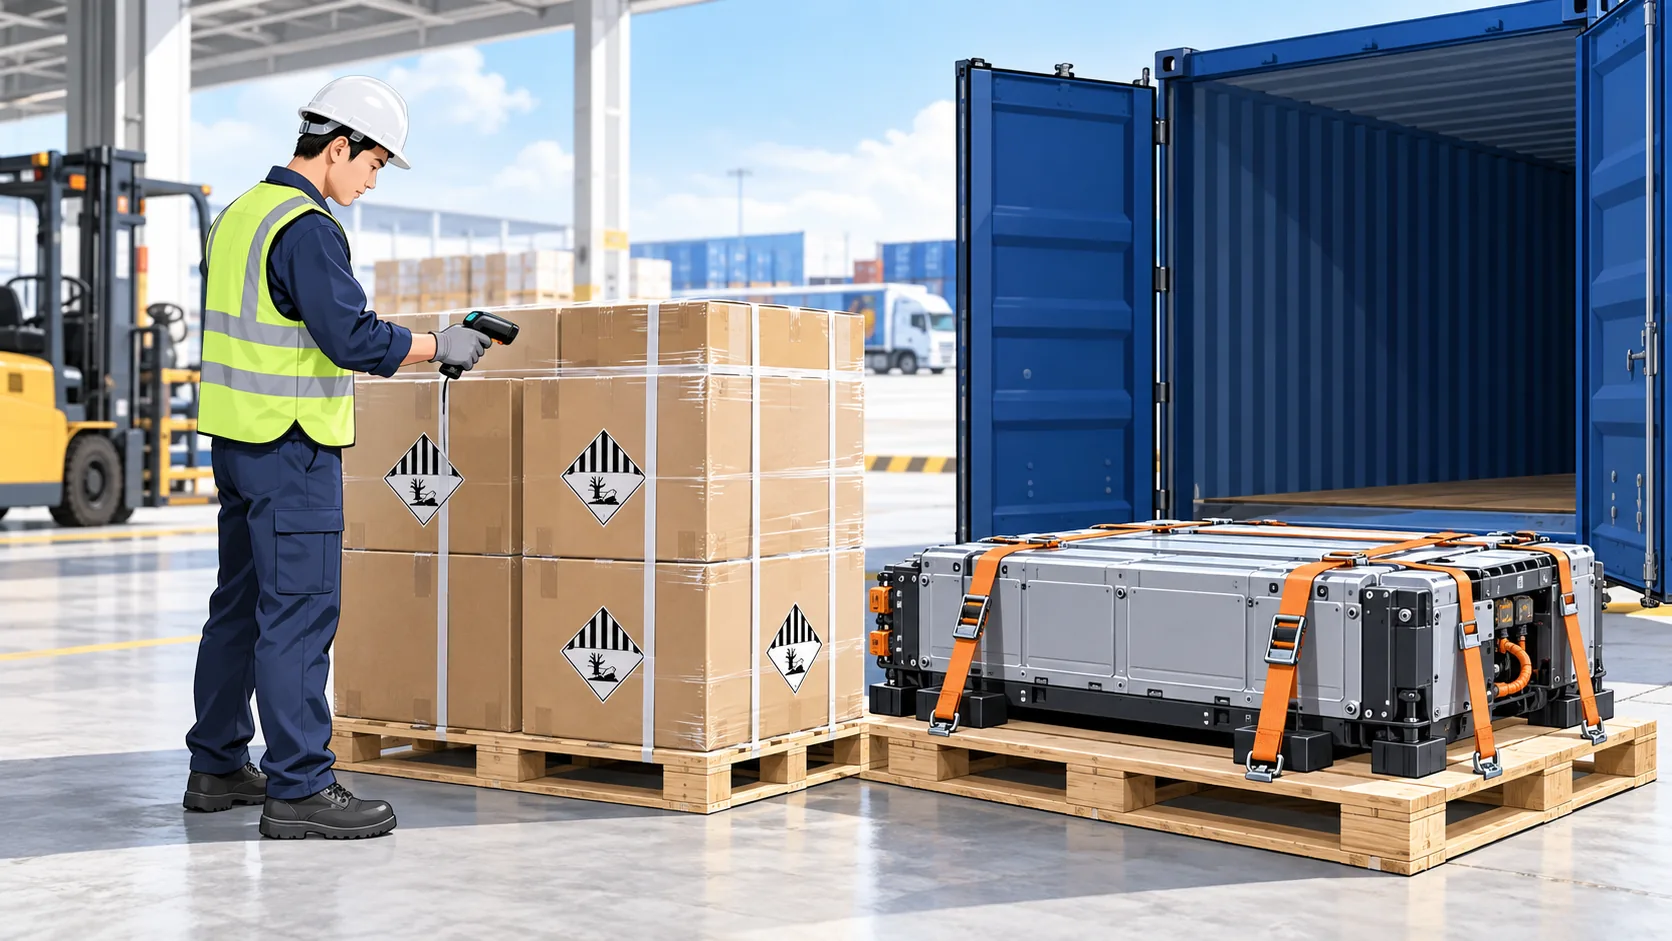
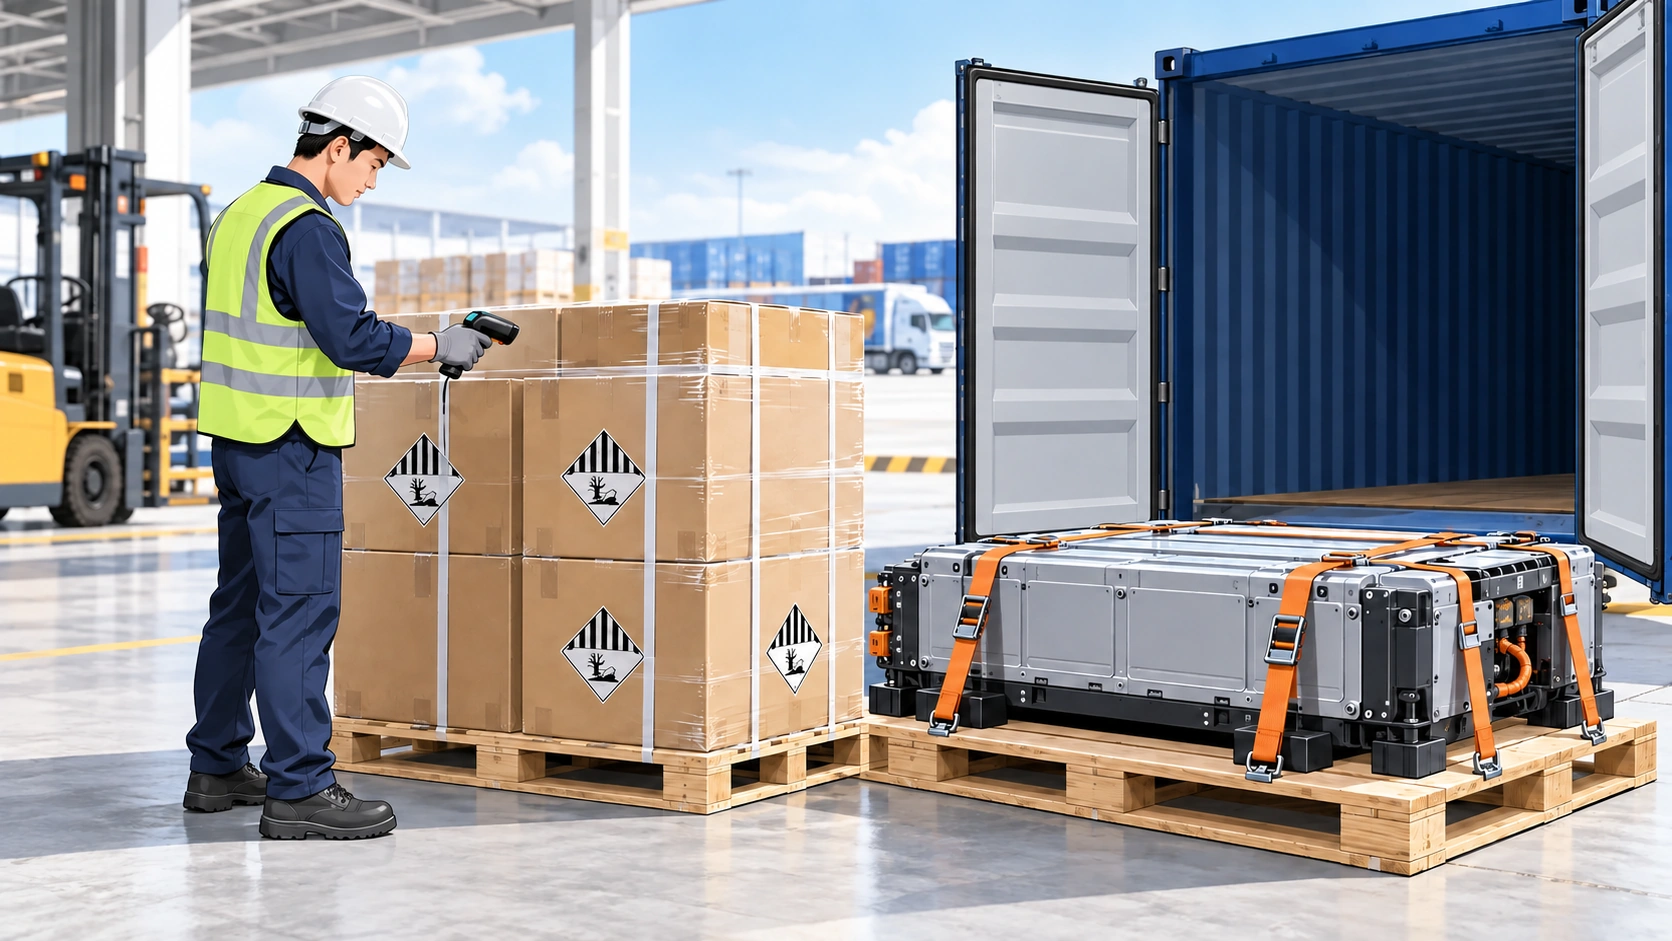
Container doors fixed in 7 illustrations: hinged at the outer corner posts, locking gear only on the outer face, plain inner faces when open

diff --git a/library/ctu-code.html b/library/ctu-code.html
@@ -14,7 +14,7 @@
   <meta property="og:url" content="https://logistics.onharu.app/library/ctu-code">
   <meta property="og:image" content="https://logistics.onharu.app/images/ctu/collapsed-cargo-v2.webp">
   <meta name="twitter:card" content="summary_large_image">
-  <script type="application/ld+json">{"@context": "https://schema.org", "@graph": [{"@type": "CollectionPage", "@id": "https://logistics.onharu.app/library/ctu-code", "name": "CTU Code · Logistics Library", "description": "CTU Code 공식 원문 링크와 AI가 작성한 한국어 해설, 고박·보험 참고 자료.", "url": "https://logistics.onharu.app/library/ctu-code", "inLanguage": "ko", "image": ["https://logistics.onharu.app/images/ctu/collapsed-cargo-v2.webp"], "dateModified": "2026-10-18T16:08:00+09:00", "publisher": {"@type": "Organization", "name": "ONHARU", "url": "https://onharu.app/"}, "isPartOf": {"@type": "WebSite", "name": "Logistics Library", "url": "https://logistics.onharu.app/"}, "mainEntity": {"@type": "ItemList", "itemListElement": [{"@type": "ListItem", "position": 1, "url": "https://logistics.onharu.app/library/ctu-code/ctu-overview", "name": "CTU Code 설명 및 요약 — 무엇이 들어 있고 무엇을 알아야 하나"}, {"@type": "ListItem", "position": 2, "url": "https://logistics.onharu.app/library/ctu-code/ch3-key", "name": "3장 핵심 요구사항 — 단계별 체크리스트"}, {"@type": "ListItem", "position": 3, "url": "https://logistics.onharu.app/library/ctu-code/ch5-accel", "name": "5장 일반 운송 조건 — 모드별 가속도"}, {"@type": "ListItem", "position": 4, "url": "https://logistics.onharu.app/library/ctu-code/ch9-packing", "name": "9장·부속서 7 §1~2 적입 계획과 더니지·마찰·고정재"}, {"@type": "ListItem", "position": 5, "url": "https://logistics.onharu.app/library/ctu-code/ch11-after", "name": "11장 적입 완료 후 — 닫기·봉인·서류"}, {"@type": "ListItem", "position": 6, "url": "https://logistics.onharu.app/library/ctu-code/a5-receiving", "name": "부속서 5·12장 CTU 받기·개문·적출·반납"}, {"@type": "ListItem", "position": 7, "url": "https://logistics.onharu.app/library/ctu-code/a7-load-distribution", "name": "하중 분포와 무게중심, 적재 기법"}, {"@type": "ListItem", "position": 8, "url": "https://logistics.onharu.app/library/ctu-code/a7-securing", "name": "화물 고정 원칙과 고정 평가"}, {"@type": "ListItem", "position": 9, "url": "https://logistics.onharu.app/library/ctu-code/a7-calc", "name": "고정 계산 — 각재·무게중심·더니지 백"}, {"@type": "ListItem", "position": 10, "url": "https://logistics.onharu.app/library/ctu-code/im6-load-distribution", "name": "IM6 복합운송 하중 분포와 축하중"}, {"@type": "ListItem", "position": 11, "url": "https://logistics.onharu.app/library/ctu-code/qlg-c", "name": "빠른 래싱 가이드 C — Cubestow가 쓰는 표"}, {"@type": "ListItem", "position": 12, "url": "https://logistics.onharu.app/library/ctu-code/anchor-points", "name": "컨테이너 래싱 고박점 허용하중"}, {"@type": "ListItem", "position": 13, "url": "https://logistics.onharu.app/library/ctu-code/kr-road", "name": "한국 도로 운송 중량·제원 한도"}, {"@type": "ListItem", "position": 14, "url": "https://logistics.onharu.app/library/ctu-code/ch1-2-terms", "name": "1~2장 서론과 정의 — CTU Code의 성격과 핵심 용어"}, {"@type": "ListItem", "position": 15, "url": "https://logistics.onharu.app/library/ctu-code/ch4-chain", "name": "4장·부속서 1 책임과 정보의 흐름 — 누가 무엇을 책임지고 넘기나"}, {"@type": "ListItem", "position": 16, "url": "https://logistics.onharu.app/library/ctu-code/ch6-ctu", "name": "6장·IM3 CTU의 특성과 종류 — 강도·고박점·종류별 주의점"}, {"@type": "ListItem", "position": 17, "url": "https://logistics.onharu.app/library/ctu-code/ch7-suitability", "name": "7장 CTU의 적합성 — 화물과 경로에 맞는 CTU 고르기"}, {"@type": "ListItem", "position": 18, "url": "https://logistics.onharu.app/library/ctu-code/ch8-arrival", "name": "8장·부속서 4 빈 CTU 받기·점검과 승인 명판"}, {"@type": "ListItem", "position": 19, "url": "https://logistics.onharu.app/library/ctu-code/ch13-training", "name": "13장·부속서 10 적입 교육"}, {"@type": "ListItem", "position": 20, "url": "https://logistics.onharu.app/library/ctu-code/a2-handling", "name": "부속서 2 CTU의 안전한 취급 — 들기·옮기기·쌓기·고정"}, {"@type": "ListItem", "position": 21, "url": "https://logistics.onharu.app/library/ctu-code/a3-condensation", "name": "부속서 3 결로 손상 방지 — 컨테이너 결로와 화물 결로"}, {"@type": "ListItem", "position": 22, "url": "https://logistics.onharu.app/library/ctu-code/im1-consequences", "name": "IM1 부적절한 적입의 결과 — 무엇이 어떻게 잘못되나"}, {"@type": "ListItem", "position": 23, "url": "https://logistics.onharu.app/library/ctu-code/im2-documents", "name": "IM2 운송 관련 대표 서류"}, {"@type": "ListItem", "position": 24, "url": "https://logistics.onharu.app/library/ctu-code/im7-manual", "name": "IM7 수작업 취급 — 손으로 싣고 옮길 때"}, {"@type": "ListItem", "position": 25, "url": "https://logistics.onharu.app/library/ctu-code/im9-seals", "name": "IM9 CTU 봉인 — 고르기·걸기·대조·자르기"}, {"@type": "ListItem", "position": 26, "url": "https://logistics.onharu.app/library/ctu-code/cargo-cases", "name": "고박·포장 불량과 보험·소송 사례집"}, {"@type": "ListItem", "position": 27, "url": "https://logistics.onharu.app/library/ctu-code/cubestow-application", "name": "CTU Code를 CubeStow에 적용한 기준"}]}}, {"@type": "BreadcrumbList", "itemListElement": [{"@type": "ListItem", "position": 1, "name": "Logistics Library", "item": "https://logistics.onharu.app/"}, {"@type": "ListItem", "position": 2, "name": "CTU Code", "item": "https://logistics.onharu.app/library/ctu-code"}]}]}</script>
+  <script type="application/ld+json">{"@context": "https://schema.org", "@graph": [{"@type": "CollectionPage", "@id": "https://logistics.onharu.app/library/ctu-code", "name": "CTU Code · Logistics Library", "description": "CTU Code 공식 원문 링크와 AI가 작성한 한국어 해설, 고박·보험 참고 자료.", "url": "https://logistics.onharu.app/library/ctu-code", "inLanguage": "ko", "image": ["https://logistics.onharu.app/images/ctu/collapsed-cargo-v2.webp"], "dateModified": "2026-10-18T18:44:27+09:00", "publisher": {"@type": "Organization", "name": "ONHARU", "url": "https://onharu.app/"}, "isPartOf": {"@type": "WebSite", "name": "Logistics Library", "url": "https://logistics.onharu.app/"}, "mainEntity": {"@type": "ItemList", "itemListElement": [{"@type": "ListItem", "position": 1, "url": "https://logistics.onharu.app/library/ctu-code/ctu-overview", "name": "CTU Code 설명 및 요약 — 무엇이 들어 있고 무엇을 알아야 하나"}, {"@type": "ListItem", "position": 2, "url": "https://logistics.onharu.app/library/ctu-code/ch3-key", "name": "3장 핵심 요구사항 — 단계별 체크리스트"}, {"@type": "ListItem", "position": 3, "url": "https://logistics.onharu.app/library/ctu-code/ch5-accel", "name": "5장 일반 운송 조건 — 모드별 가속도"}, {"@type": "ListItem", "position": 4, "url": "https://logistics.onharu.app/library/ctu-code/ch9-packing", "name": "9장·부속서 7 §1~2 적입 계획과 더니지·마찰·고정재"}, {"@type": "ListItem", "position": 5, "url": "https://logistics.onharu.app/library/ctu-code/ch11-after", "name": "11장 적입 완료 후 — 닫기·봉인·서류"}, {"@type": "ListItem", "position": 6, "url": "https://logistics.onharu.app/library/ctu-code/a5-receiving", "name": "부속서 5·12장 CTU 받기·개문·적출·반납"}, {"@type": "ListItem", "position": 7, "url": "https://logistics.onharu.app/library/ctu-code/a7-load-distribution", "name": "하중 분포와 무게중심, 적재 기법"}, {"@type": "ListItem", "position": 8, "url": "https://logistics.onharu.app/library/ctu-code/a7-securing", "name": "화물 고정 원칙과 고정 평가"}, {"@type": "ListItem", "position": 9, "url": "https://logistics.onharu.app/library/ctu-code/a7-calc", "name": "고정 계산 — 각재·무게중심·더니지 백"}, {"@type": "ListItem", "position": 10, "url": "https://logistics.onharu.app/library/ctu-code/im6-load-distribution", "name": "IM6 복합운송 하중 분포와 축하중"}, {"@type": "ListItem", "position": 11, "url": "https://logistics.onharu.app/library/ctu-code/qlg-c", "name": "빠른 래싱 가이드 C — Cubestow가 쓰는 표"}, {"@type": "ListItem", "position": 12, "url": "https://logistics.onharu.app/library/ctu-code/anchor-points", "name": "컨테이너 래싱 고박점 허용하중"}, {"@type": "ListItem", "position": 13, "url": "https://logistics.onharu.app/library/ctu-code/kr-road", "name": "한국 도로 운송 중량·제원 한도"}, {"@type": "ListItem", "position": 14, "url": "https://logistics.onharu.app/library/ctu-code/ch1-2-terms", "name": "1~2장 서론과 정의 — CTU Code의 성격과 핵심 용어"}, {"@type": "ListItem", "position": 15, "url": "https://logistics.onharu.app/library/ctu-code/ch4-chain", "name": "4장·부속서 1 책임과 정보의 흐름 — 누가 무엇을 책임지고 넘기나"}, {"@type": "ListItem", "position": 16, "url": "https://logistics.onharu.app/library/ctu-code/ch6-ctu", "name": "6장·IM3 CTU의 특성과 종류 — 강도·고박점·종류별 주의점"}, {"@type": "ListItem", "position": 17, "url": "https://logistics.onharu.app/library/ctu-code/ch7-suitability", "name": "7장 CTU의 적합성 — 화물과 경로에 맞는 CTU 고르기"}, {"@type": "ListItem", "position": 18, "url": "https://logistics.onharu.app/library/ctu-code/ch8-arrival", "name": "8장·부속서 4 빈 CTU 받기·점검과 승인 명판"}, {"@type": "ListItem", "position": 19, "url": "https://logistics.onharu.app/library/ctu-code/ch13-training", "name": "13장·부속서 10 적입 교육"}, {"@type": "ListItem", "position": 20, "url": "https://logistics.onharu.app/library/ctu-code/a2-handling", "name": "부속서 2 CTU의 안전한 취급 — 들기·옮기기·쌓기·고정"}, {"@type": "ListItem", "position": 21, "url": "https://logistics.onharu.app/library/ctu-code/a3-condensation", "name": "부속서 3 결로 손상 방지 — 컨테이너 결로와 화물 결로"}, {"@type": "ListItem", "position": 22, "url": "https://logistics.onharu.app/library/ctu-code/im1-consequences", "name": "IM1 부적절한 적입의 결과 — 무엇이 어떻게 잘못되나"}, {"@type": "ListItem", "position": 23, "url": "https://logistics.onharu.app/library/ctu-code/im2-documents", "name": "IM2 운송 관련 대표 서류"}, {"@type": "ListItem", "position": 24, "url": "https://logistics.onharu.app/library/ctu-code/im7-manual", "name": "IM7 수작업 취급 — 손으로 싣고 옮길 때"}, {"@type": "ListItem", "position": 25, "url": "https://logistics.onharu.app/library/ctu-code/im9-seals", "name": "IM9 CTU 봉인 — 고르기·걸기·대조·자르기"}, {"@type": "ListItem", "position": 26, "url": "https://logistics.onharu.app/library/ctu-code/cargo-cases", "name": "고박·포장 불량과 보험·소송 사례집"}, {"@type": "ListItem", "position": 27, "url": "https://logistics.onharu.app/library/ctu-code/cubestow-application", "name": "CTU Code를 CubeStow에 적용한 기준"}]}}, {"@type": "BreadcrumbList", "itemListElement": [{"@type": "ListItem", "position": 1, "name": "Logistics Library", "item": "https://logistics.onharu.app/"}, {"@type": "ListItem", "position": 2, "name": "CTU Code", "item": "https://logistics.onharu.app/library/ctu-code"}]}]}</script>
   <link rel="icon" type="image/svg+xml" href="/favicon.svg?v=20261004-01">
   <link rel="stylesheet" href="/styles.css?v=20261013-02">
   <link rel="stylesheet" href="/ctu-library.css?v=20261018-01">
@@ -61,7 +61,7 @@
       
     </div>
     <a class="entry-image" href="/library/ctu-code" aria-label="CTU Code 자료 보기">
-      <img src="/images/ctu/collapsed-cargo-v2.webp?v=main-01" alt="열린 컨테이너 안에서 고정되지 않은 화물이 무너진 모습" width="1672" height="941" srcset="/images/ctu/collapsed-cargo-v2-w480.webp 480w, /images/ctu/collapsed-cargo-v2-w640.webp 640w, /images/ctu/collapsed-cargo-v2-w960.webp 960w, /images/ctu/collapsed-cargo-v2.webp?v=main-01 1672w" sizes="(max-width: 900px) calc(100vw - 72px), 400px" decoding="async">
+      <img src="/images/ctu/collapsed-cargo-v2.webp?v=main-02" alt="열린 컨테이너 안에서 고정되지 않은 화물이 무너진 모습" width="1672" height="941" srcset="/images/ctu/collapsed-cargo-v2-w480.webp 480w, /images/ctu/collapsed-cargo-v2-w640.webp 640w, /images/ctu/collapsed-cargo-v2-w960.webp 960w, /images/ctu/collapsed-cargo-v2.webp?v=main-02 1672w" sizes="(max-width: 900px) calc(100vw - 72px), 400px" decoding="async">
     </a>
   </section></div><div class="li-notice"><b>저작권과 해설</b><p>CTU Code와 정보자료의 저작권은 IMO에 있으며 원문은 아래 공식 배포 사이트를 통해 내려받을 수 있습니다.<br>해설과 참고 자료는 AI가 원문과 법령을 읽고 직접 작성하였으며 IMO·ILO·UNECE가 만들거나 검토한 것이 아닙니다.<br>CTU Code 본문(1497)과 정보자료(1498)의 전체 한국어 번역 초안은 준비되어 있으나 저작권자인 IMO의 사전 서면 허가 없이는 번역본을 게시할 수 없어, IMO의 게시 허가를 기다리는 중입니다.</p></div><div class="li-ov-doc"><article class="lib-article"><span class="lib-doc-head"><span class="lib-tag">설명·요약</span></span><h2 class="lib-doc-title">CTU Code 설명 및 요약 — 무엇이 들어 있고 무엇을 알아야 하나</h2><p class="lib-checked">원문 대조 확인 2026-10-14</p>
       <figure class="lib-figure"><img src="/images/ctu/ctu-code-scope-v2.webp" alt="화물 준비부터 적입, 고정, 운송, 개문까지 이어지는 CTU Code 적용 범위" loading="lazy" decoding="async" width="1671" height="941" srcset="/images/ctu/ctu-code-scope-v2-w480.webp 480w, /images/ctu/ctu-code-scope-v2-w640.webp 640w, /images/ctu/ctu-code-scope-v2-w960.webp 960w, /images/ctu/ctu-code-scope-v2.webp 1671w" sizes="(max-width: 900px) calc(100vw - 40px), 920px"><figcaption><span>AI 생성 도해</span> CTU Code는 적입 작업뿐 아니라 준비, 운송, 인수와 개문까지 이어지는 전체 운송 사슬을 다룹니다.</figcaption></figure>

diff --git a/index.html b/index.html
@@ -65,7 +65,7 @@
       
     </div>
     <a class="entry-image" href="/library/ctu-code" aria-label="CTU Code 자료 보기">
-      <img src="/images/ctu/collapsed-cargo-v2.webp?v=main-01" alt="열린 컨테이너 안에서 고정되지 않은 화물이 무너진 모습" width="1672" height="941" srcset="/images/ctu/collapsed-cargo-v2-w480.webp 480w, /images/ctu/collapsed-cargo-v2-w640.webp 640w, /images/ctu/collapsed-cargo-v2-w960.webp 960w, /images/ctu/collapsed-cargo-v2.webp?v=main-01 1672w" sizes="(max-width: 900px) calc(100vw - 72px), 400px" decoding="async">
+      <img src="/images/ctu/collapsed-cargo-v2.webp?v=main-02" alt="열린 컨테이너 안에서 고정되지 않은 화물이 무너진 모습" width="1672" height="941" srcset="/images/ctu/collapsed-cargo-v2-w480.webp 480w, /images/ctu/collapsed-cargo-v2-w640.webp 640w, /images/ctu/collapsed-cargo-v2-w960.webp 960w, /images/ctu/collapsed-cargo-v2.webp?v=main-02 1672w" sizes="(max-width: 900px) calc(100vw - 72px), 400px" decoding="async">
     </a>
   </section>
 <section class="library-entry" aria-labelledby="incoterms-title">

diff --git a/tools/home-cards.html b/tools/home-cards.html
@@ -14,7 +14,7 @@
       <a class="entry-link" href="/library/ctu-code">CTU Code 자료 보기 <span aria-hidden="true">→</span></a>
     </div>
     <a class="entry-image" href="/library/ctu-code" aria-label="CTU Code 자료 보기">
-      <img src="/images/ctu/collapsed-cargo-v2.webp?v=main-01" alt="열린 컨테이너 안에서 고정되지 않은 화물이 무너진 모습" width="1672" height="941">
+      <img src="/images/ctu/collapsed-cargo-v2.webp?v=main-02" alt="열린 컨테이너 안에서 고정되지 않은 화물이 무너진 모습" width="1672" height="941">
     </a>
   </section>
 
